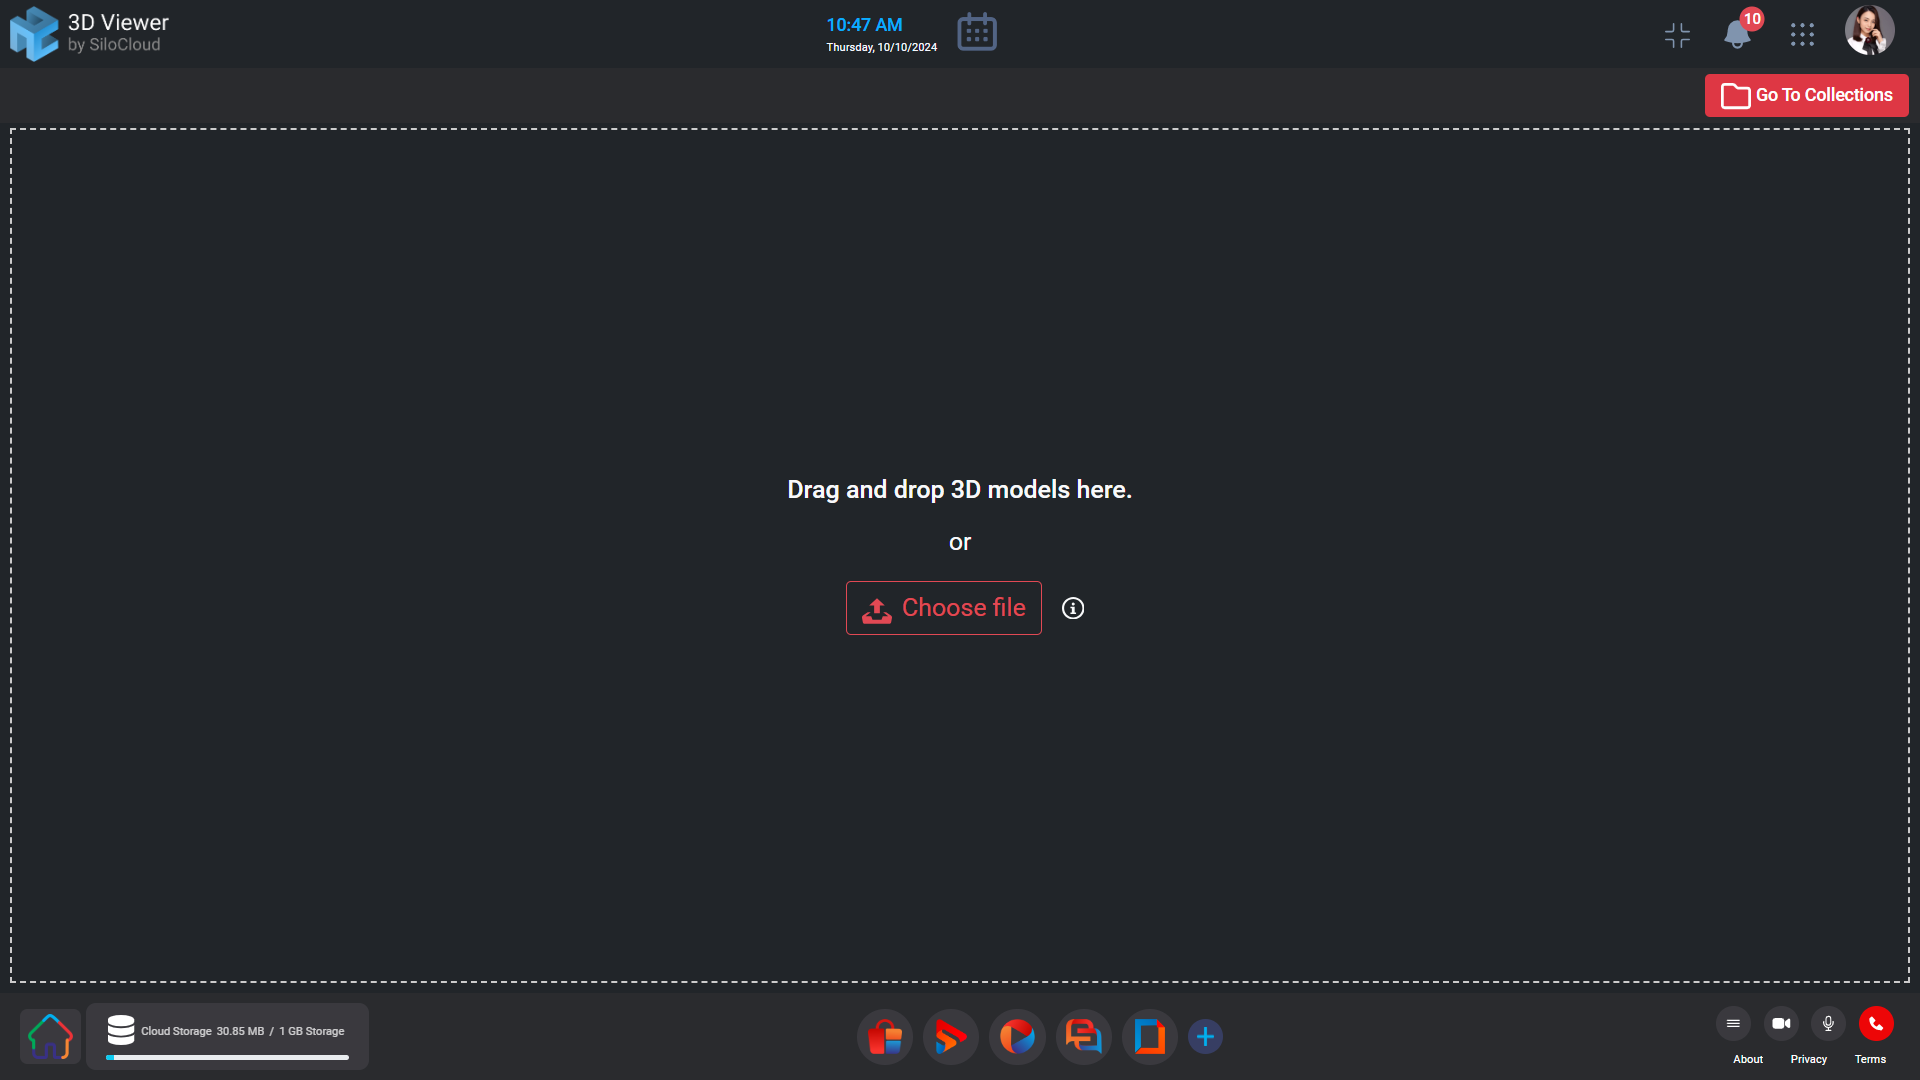
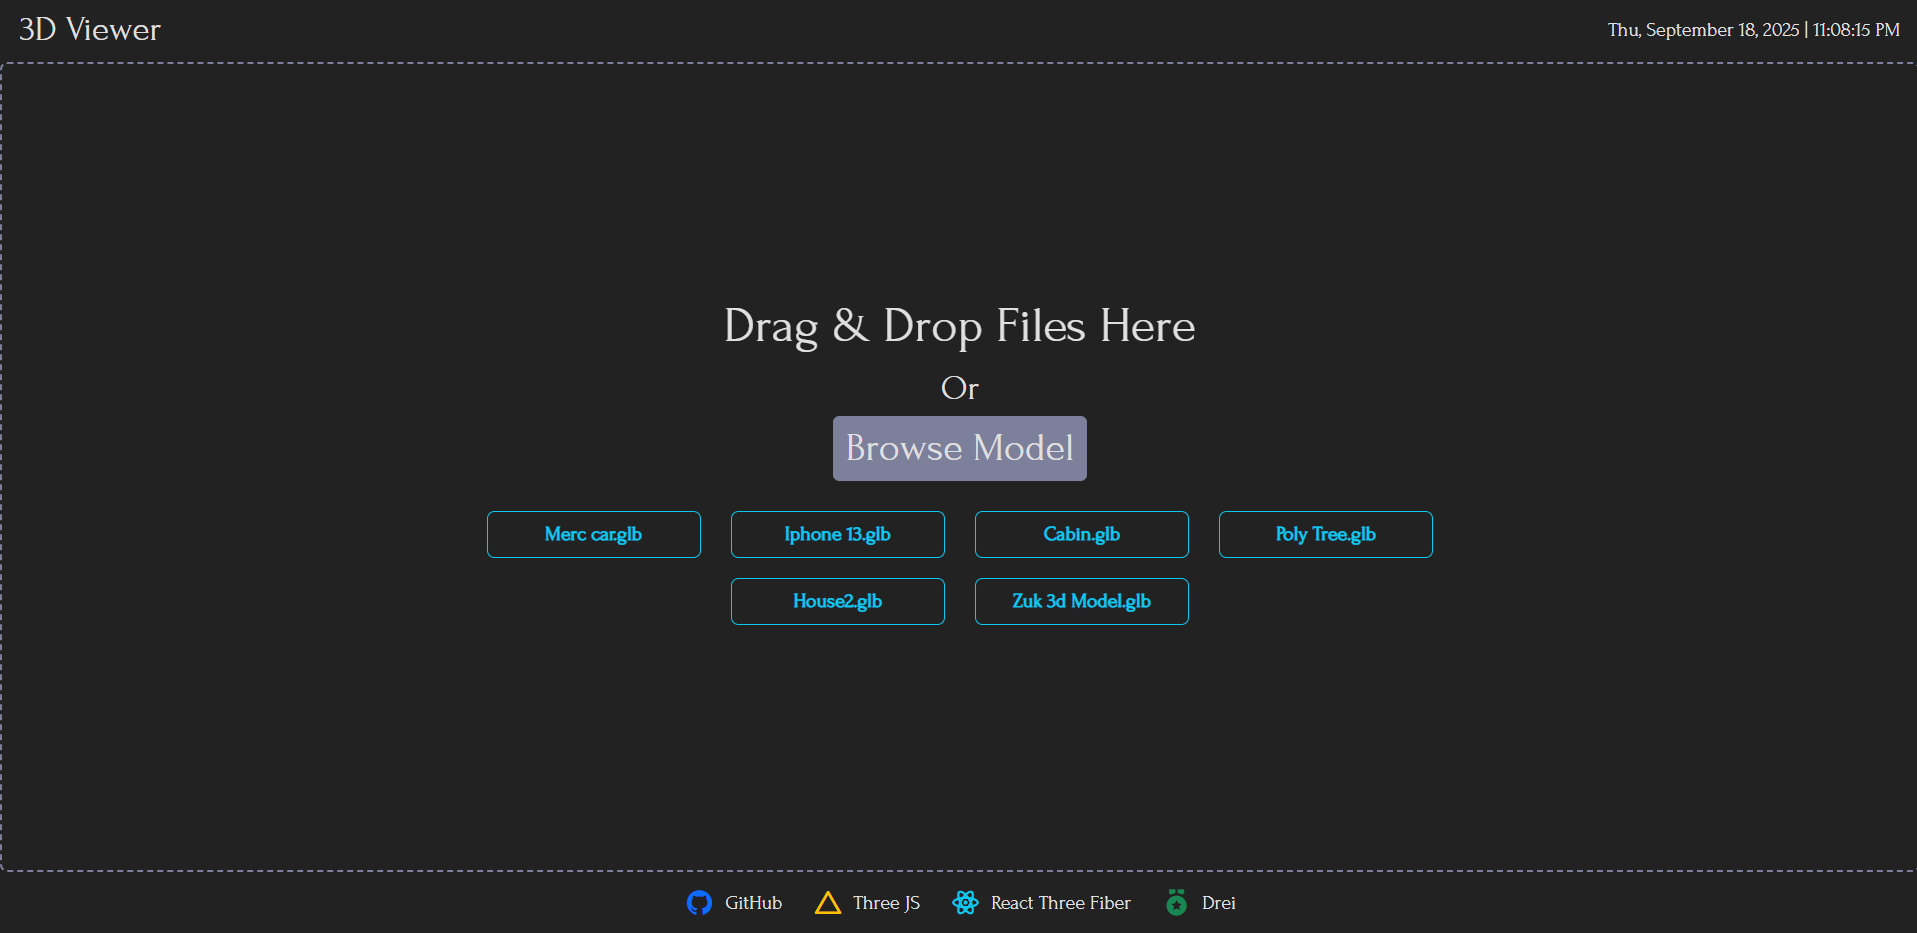
modify the project

diff --git a/app/routes/projects.smart-sparrow/smart-sparrow.jsx b/app/routes/projects.smart-sparrow/smart-sparrow.jsx
@@ -1,8 +1,8 @@
 import backgroundSpr from '~/assets/3dbackground.jpg';
-import imageSprLessonBuilderDark from '~/assets/3dModelWhite.png';
-import imageSprLessonBuilderLight from '~/assets/3dmodelBlack.png';
-import imageSprStoryboarderDark from '~/assets/3dShelbyCarwhite.png';
-import imageSprStoryboarderLight from '~/assets/3dShellbyCar.png';
+import imageSprLessonBuilderDark from '~/assets/IphoneImage.png';
+import imageSprLessonBuilderLight from '~/assets/IphoneImage.png';
+import imageSprStoryboarderDark from '~/assets/carImage.png';
+import imageSprStoryboarderLight from '~/assets/carImage.png';
 import { Footer } from '~/components/footer';
 import { Image } from '~/components/image';
 import { Link } from '~/components/link';
@@ -24,12 +24,13 @@ import styles from './smart-sparrow.module.css';
 
 const title = 'Platform to view the 3d Model';
 const description =
-  'I worked as a Software Intern at Noitavonne, independently handling a project under the guidance of a Senior Developer. Together, we revamped the platform, taking it in a bold new direction with a focus on making it the best tool for viewing 3D models.';
+  'I worked as a Software Intern at Noitavonne, where I independently handled a project under the guidance of a Senior Developer. During this experience, I enhanced my skills in frontend development and gained knowledge of React Three Fiber and the Three.js library. Using these technologies, I created this project, taking it in a bold new direction with a focus on building an effective tool for viewing 3D models.';
 const roles = [
   'Front End Development',
-  'UX and UI Design',
+  'Full Stack Development',
   'React Three Fiber',
   'Three Js',
+  'React Js Developer',
 ];
 
 export const meta = () => {
@@ -52,7 +53,7 @@ export const SmartSparrow = () => {
         <ProjectHeader
           title={title}
           description={description}
-          url="https://3d.silocloud.io/"
+          url="https://3d-viewer-seven.vercel.app/"
           roles={roles}
         />
         <ProjectSection padding="top">
@@ -78,12 +79,7 @@ export const SmartSparrow = () => {
             <ProjectTextRow>
               <ProjectSectionHeading>About Project</ProjectSectionHeading>
               <ProjectSectionText>
-                "A key aspect of the project was to implement functionality that allowed
-                users to hide and unhide parts of the 3D model, improving the overall
-                viewing experience. Additionally, we integrated a feature that enables
-                users to upload 3D models to the cloud, where a page collection displays
-                the uploaded models. This was particularly beneficial for 3D model
-                creators, as it allowed them to focus on specific parts with ease."
+                  "A key aspect of the project was implementing functionality that allowed users to hide and unhide parts of the 3D model, enhancing the overall viewing experience. We also integrated multiple background options to ensure the model could be viewed clearly in different environments. In addition, users can access detailed information about the 3D model, along with extra features designed to improve usability. This was particularly beneficial for 3D model creators, as it enabled them to focus on specific parts with ease."
               </ProjectSectionText>
             </ProjectTextRow>
             <Image
@@ -108,10 +104,7 @@ export const SmartSparrow = () => {
               <ProjectSectionHeading>Project outcomes</ProjectSectionHeading>
               <ProjectSectionText>
                 "Ultimately, the project was successfully deployed on the server, though
-                it still requires some refinements. Additionally, the{' '}
-                <Link href="https://3d.silocloud.io/">Silo 3D Viewer</Link> should
-                incorporate a marketplace for buying and selling products, as well as key
-                features found in other leading viewers."
+                it still requires some refinements. Additionally, the <Link href="https://3d-viewer-seven.vercel.app/">3D Viewer</Link> should provide a more seamless user experience with improved performance and additional customization options."
               </ProjectSectionText>
             </ProjectTextRow>
           </ProjectSectionContent>

diff --git a/app/routes/home/home.jsx b/app/routes/home/home.jsx
@@ -110,7 +110,7 @@ export const Home = () => {
         buttonLink="/projects/smart-sparrow"
         model={{
           type: 'laptop',
-          alt: 'Smart Sparrow lesson builder',
+          alt: '3d viewer',
           textures: [
             {
               srcSet: `${sprTexture} 1280w, ${sprTextureLarge} 2560w`,
@@ -126,9 +126,9 @@ export const Home = () => {
         visible={visibleSections.includes(projectTwo.current)}
         index={2}
         title="Portfolio Website"
-        description="A passionate 3D Artist and Animator specialized in creating stunning 3D models & captivating animations using Blender. Let’s bring your vision to life in 3D!"
+        description="A passionate 3D Artist and Animator specialized in creating stunning 3D models & captivating animations using Blender. Let’s bring his vision to life in 3D!"
         buttonText="View website"
-        buttonLink="https://pravin-s-portfolio.vercel.app/"
+        buttonLink="https://pravinportfolio-five.vercel.app/"
         model={{
           type: 'phone',
           alt: 'App Home ',
